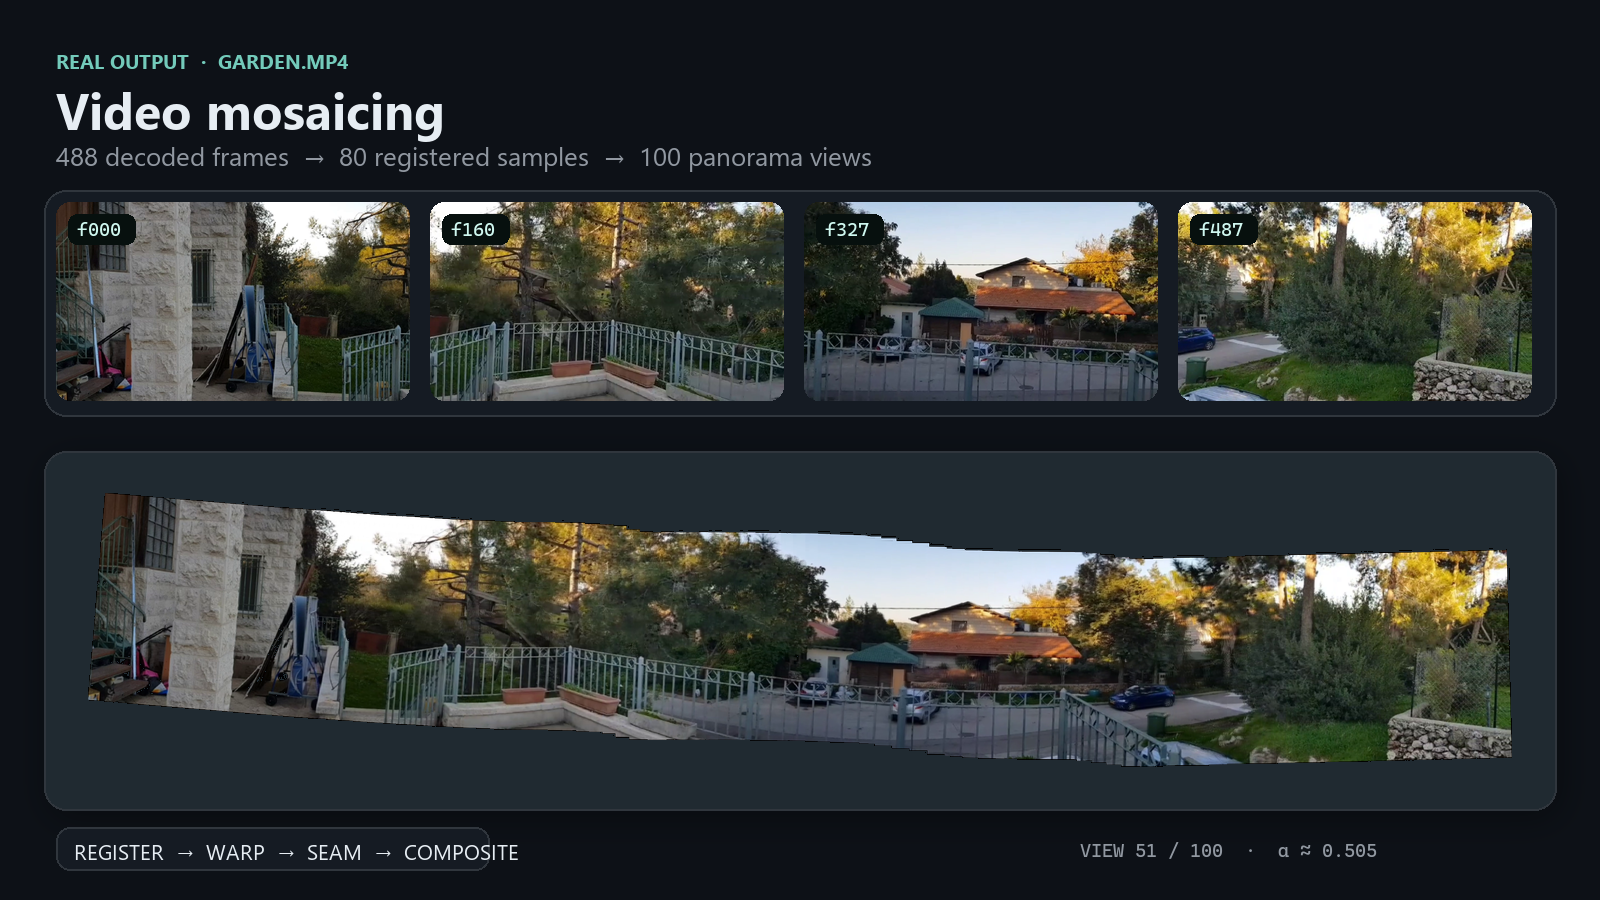
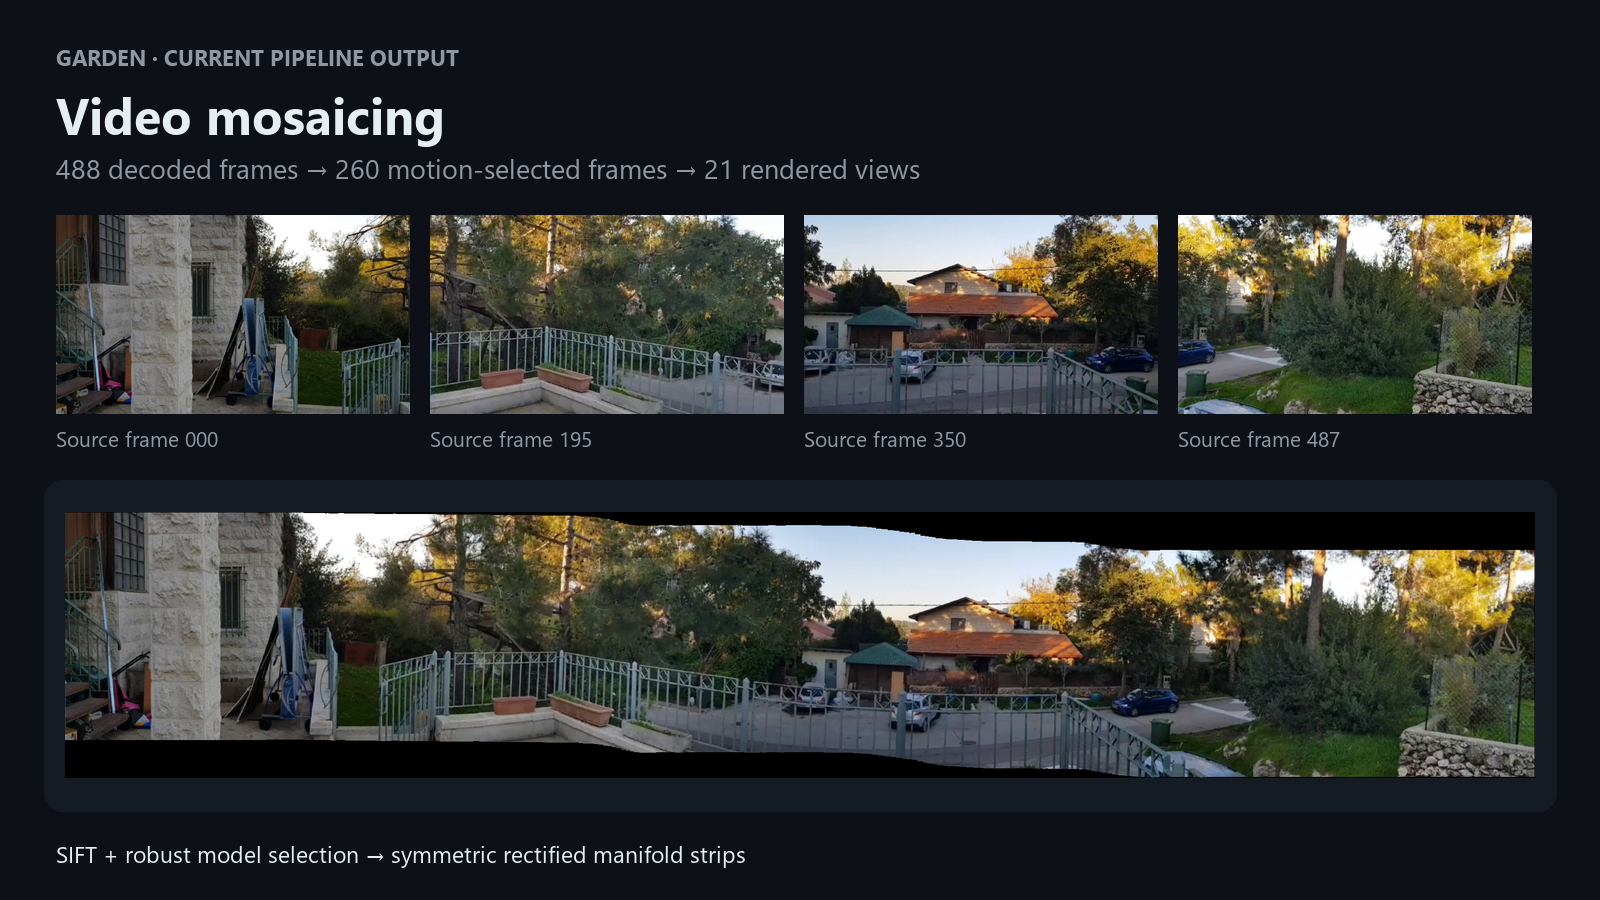
Show verified current Garden pipeline in the portfolio

diff --git a/README.md b/README.md
@@ -111,12 +111,12 @@
 <table width="100%"><tr><td>
 <a href="https://github.com/roeetekoah/video-mosaicing#video-mosaicing"><picture>
 <source media="(prefers-color-scheme: dark)" srcset="assets/video-mosaicing-real-dark.png">
-<img src="assets/video-mosaicing-real-light.png" width="100%" alt="Four real Garden input frames above a saved panorama from the original rigid Lucas-Kanade coursework pipeline. Click to explore the project.">
+<img src="assets/video-mosaicing-real-light.png" width="100%" alt="Four selected Garden source frames above the panorama produced by the current robust-registration and rectified manifold pipeline. Click to watch the actual panorama sweep.">
 </picture></a>
 <h3>Video mosaicing</h3>
-<p>The Garden example shows the original rigid Lucas–Kanade pipeline: 488 decoded frames, 80 registered samples, and 100 panorama views. The current release adds robust feature-based registration and locally rectified manifold strips.</p>
+<p>Real Garden footage processed by the current pipeline: 488 decoded frames, 260 motion-selected observations, and 21 panorama views. Robust model selection and Peleg-style rectified strips reduce accumulated distortion; the recorded five-pair comparison lowers median correspondence error from 1.71 to 0.51 pixels.</p>
 <p><sub>Python · Computer vision · Original coursework grade: 100/100</sub></p>
-<p><a href="https://github.com/roeetekoah/video-mosaicing">Explore the project ↗</a> &nbsp;·&nbsp; <a href="https://github.com/roeetekoah/video-mosaicing/blob/main/docs/pipeline-walkthrough.md">Algorithm walkthrough ↗</a> &nbsp;·&nbsp; <a href="https://github.com/roeetekoah/video-mosaicing/blob/main/docs/evaluation.md">Per-video evaluation ↗</a> &nbsp;·&nbsp; <a href="assets/panorama.png">Original coursework panorama ↗</a></p>
+<p><a href="https://github.com/roeetekoah/video-mosaicing#video-mosaicing">Watch the actual panorama sweep ↗</a> &nbsp;·&nbsp; <a href="https://github.com/roeetekoah/video-mosaicing/blob/main/docs/pipeline-walkthrough.md">Algorithm walkthrough ↗</a> &nbsp;·&nbsp; <a href="https://github.com/roeetekoah/video-mosaicing/blob/main/docs/evaluation.md">Per-video evaluation ↗</a> &nbsp;·&nbsp; <a href="assets/panorama.png">Original coursework panorama ↗</a></p>
 </td></tr></table>
 
 <table width="100%"><tr>
